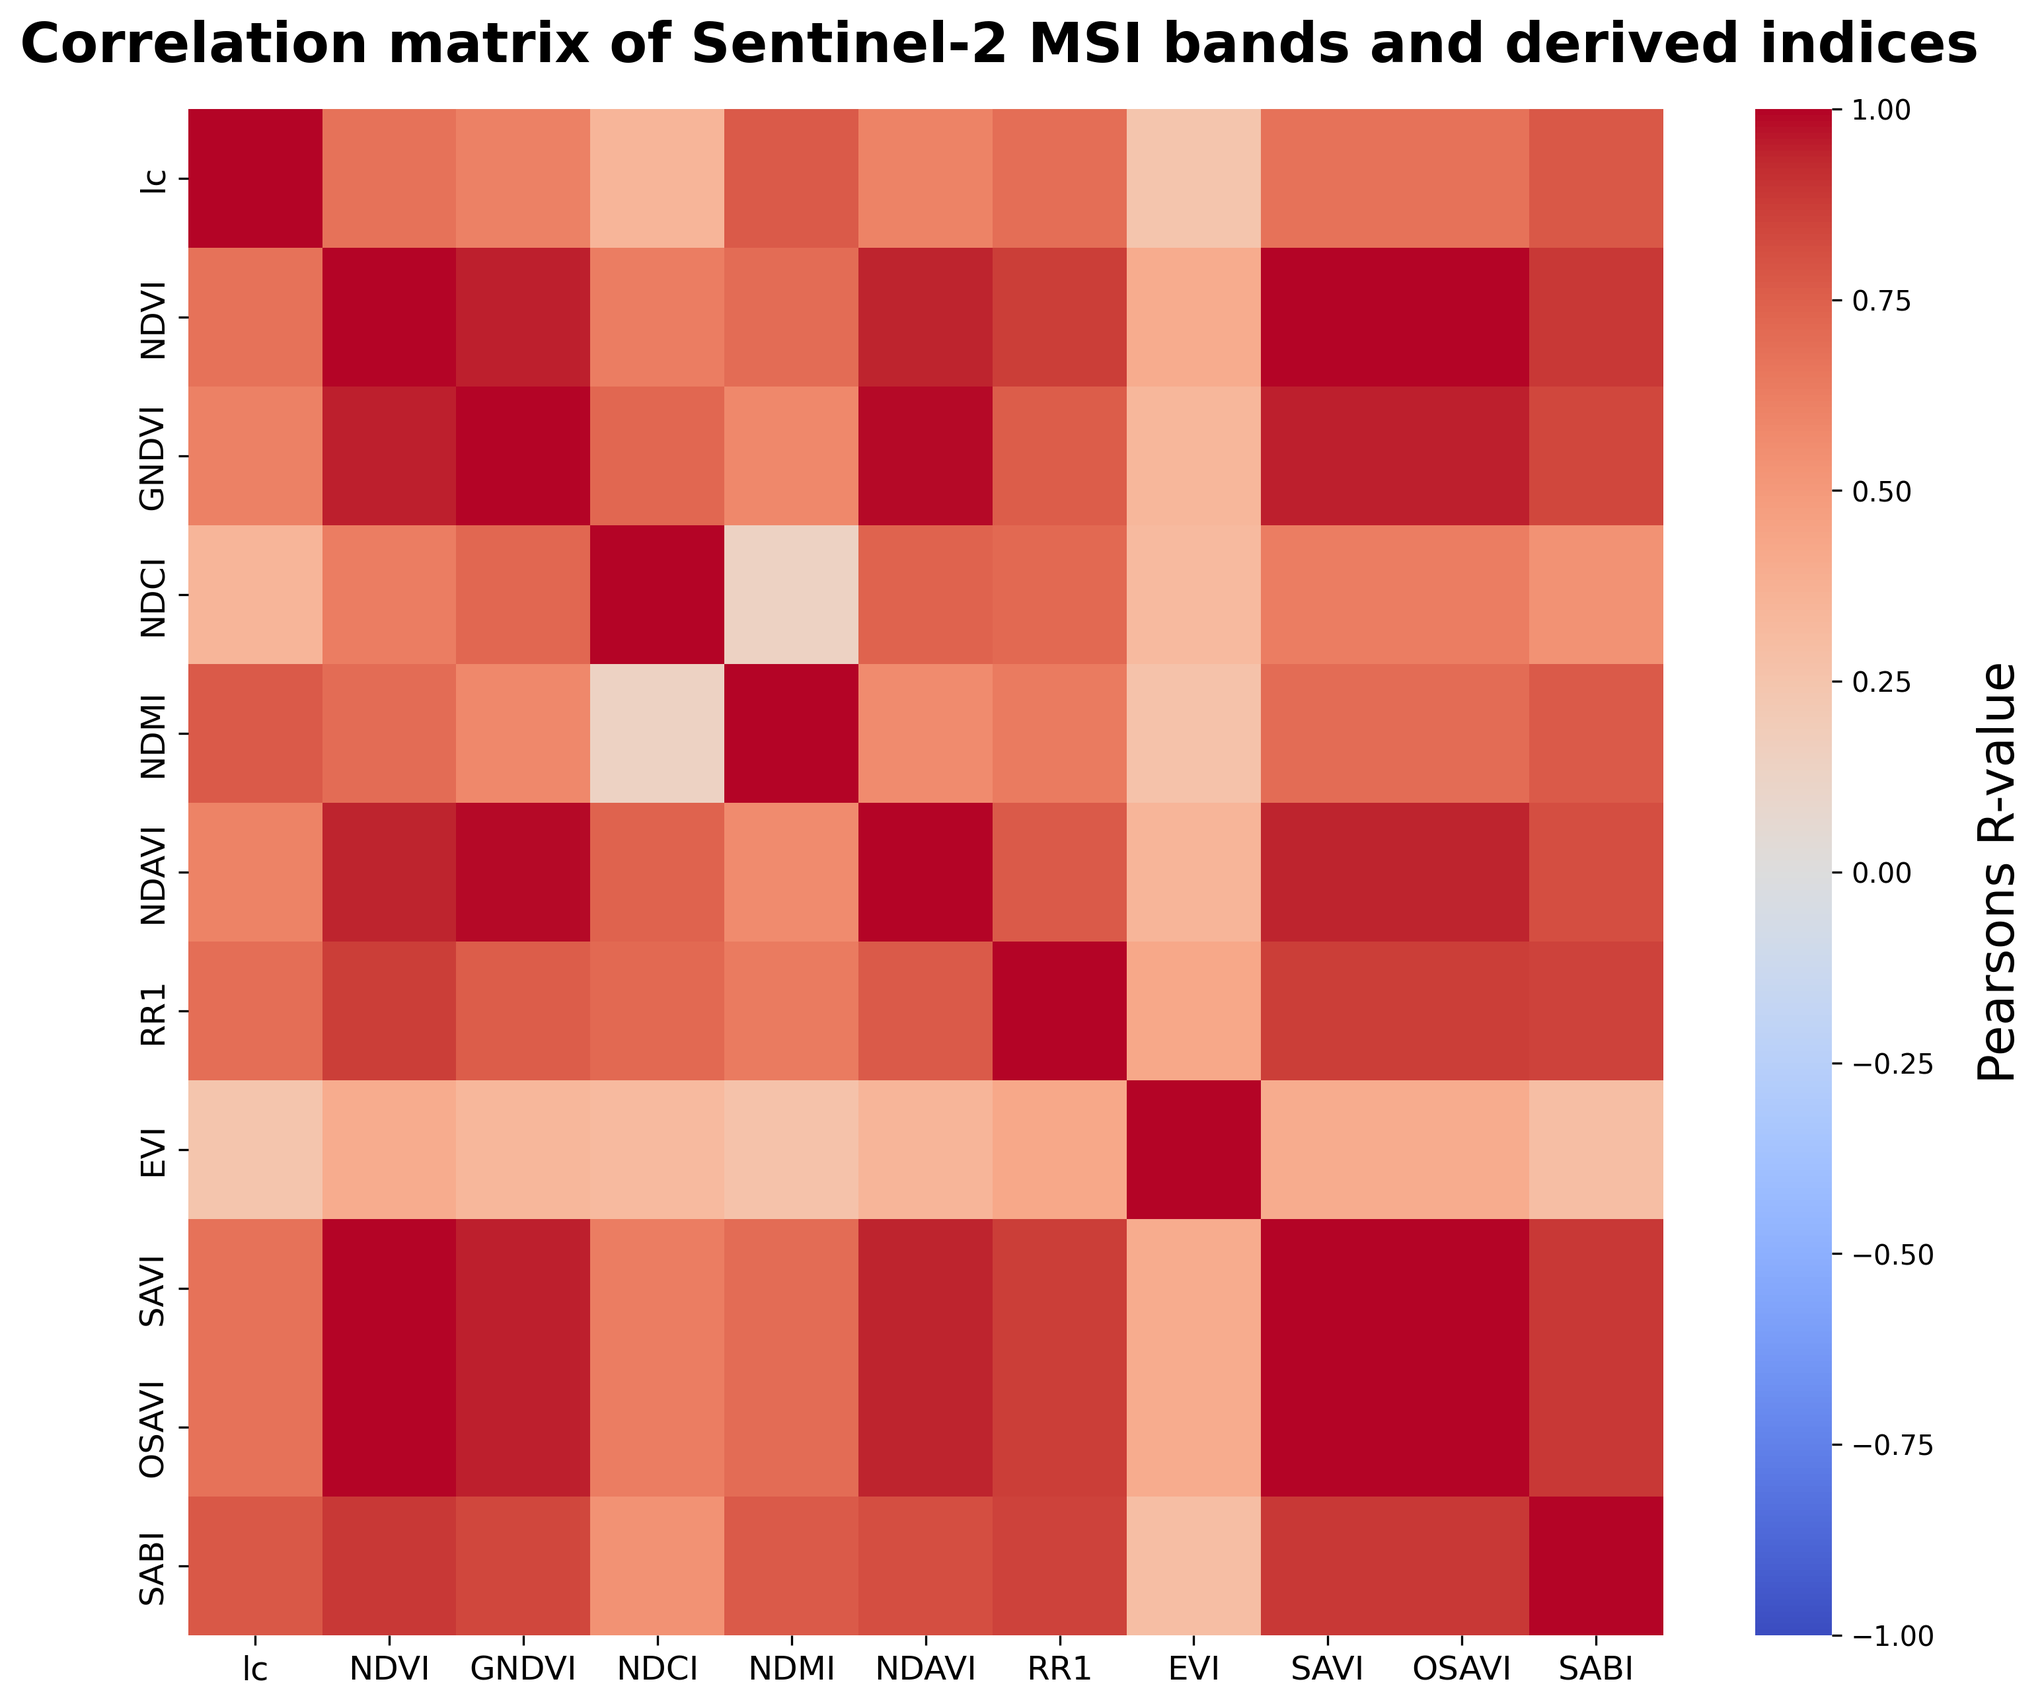
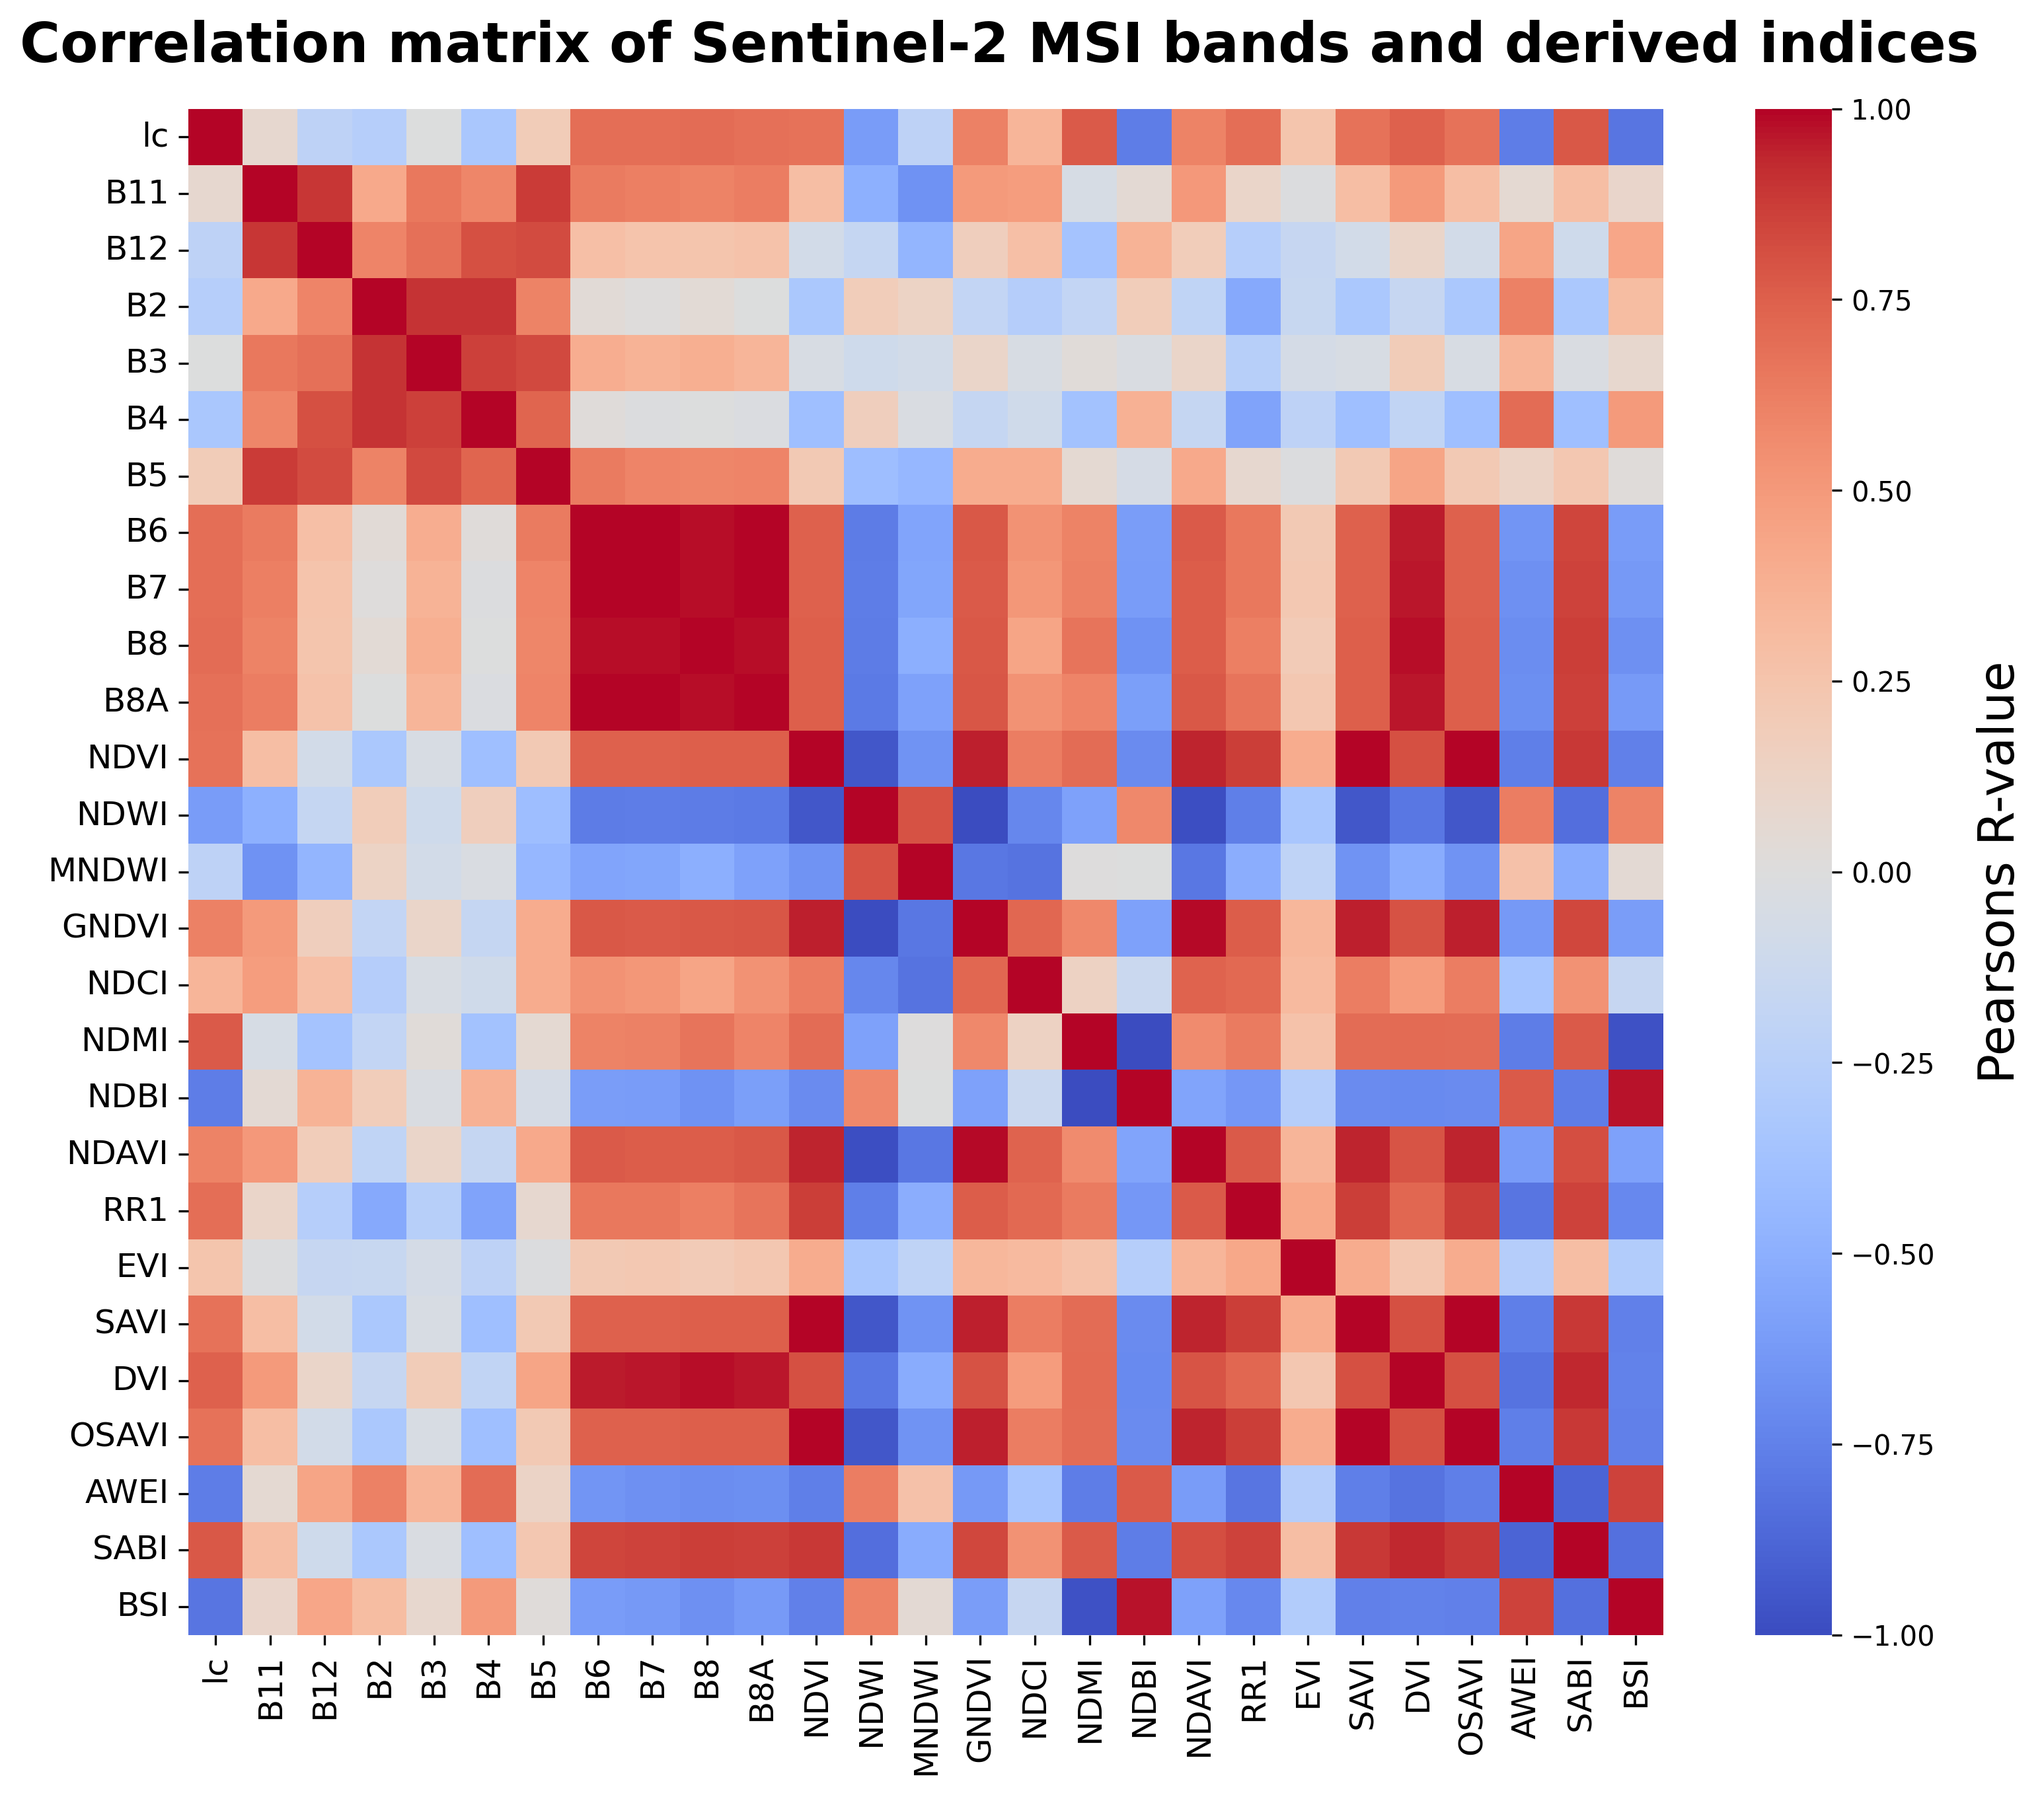
Add patch sampling

diff --git a/src/gee_utils.py b/src/gee_utils.py
@@ -237,10 +237,33 @@ def sample_points_from_image(point_fc_for_image,
      
     return samples
 
+def sample_patches_from_image(point_fc_for_image,
+                            image,
+                           ):
+    """
+    To create an image where each pixel is an array, then sample the arrays for the labelled pixels
+    """
+    kernel_radius = 7 # How many pixels either side of the labelled pixel e.g. radius of 7 gives 15x15
+    bands = ["B2", "B3", "B4", "B5", "B8", "B11", "B12"]
+
+    image = image.select(bands)
+    proj = image.select("B2").projection()
+
+    array_image = image.neighbourhoodToArray(kernel = ee.Kernel.square(kernel_radius))
+
+    sampled_patches = array_image.sampleRegions(collection = point_fc_for_image,
+                                                properties = ["lc", "obs_date", "location", "lon", "lat"],
+                                                scale = 10,
+                                                projection = proj,
+                                                geometries = False
+                                                )
+    return sampled_patches
+
 def sample_by_date(date,
                    location_fc,
                    merged_ic,
-                   location):
+                   location,
+                   points_or_patches):
     """Sample all labelled points for one date within one study location.
 
     Args:
@@ -263,14 +286,18 @@ def sample_by_date(date,
         .first()
     )
     
-    samples = sample_points_from_image(point_fc_for_image, image)
-    
+    if points_or_patches == "points":
+        samples = sample_points_from_image(point_fc_for_image, image)
+    elif points_or_patches == "patches":
+        samples = sample_patches_from_image(point_fc_for_image, image)
+
     return samples
      
 
 def sample_by_location(location,
                        merged_fc,
-                       merged_ic):
+                       merged_ic,
+                       points_or_patches):
     """Sample all labelled dates for a single study location.
 
     Args:
@@ -289,7 +316,7 @@ def sample_by_location(location,
     date_list = ee.List(location_fc.aggregate_array("obs_date")).distinct()
 
     def map_over_date(date):
-        return sample_by_date(date, location_fc, merged_ic, location)
+        return sample_by_date(date, location_fc, merged_ic, location, points_or_patches)
 
     samples_for_location = ee.FeatureCollection(date_list.map(map_over_date)
     ).flatten()
@@ -298,7 +325,8 @@ def sample_by_location(location,
 
 def subset_merged_fc_by_location(locations_ee_list,
                                  merged_ic,
-                                 merged_fc):
+                                 merged_fc,
+                                 points_or_patches):
     """Sample all configured locations and merge the results.
 
     Args:
@@ -311,7 +339,7 @@ def subset_merged_fc_by_location(locations_ee_list,
         location in ``locations_ee_list``.
     """
     def map_over_location(location):
-        return sample_by_location(location, merged_fc, merged_ic)
+        return sample_by_location(location, merged_fc, merged_ic, points_or_patches)
     
     samples_all_locations = ee.FeatureCollection(locations_ee_list.map(map_over_location)).flatten()
 
@@ -393,7 +421,8 @@ def get_samples(merged_ic,
     all_samples =  subset_merged_fc_by_location(
          locations_ee_list,
          merged_ic,
-         merged_fc
+         merged_fc,
+         points_or_patches= "points"
     )
 
     all_samples_df = geemap.ee_to_df(all_samples)
@@ -401,3 +430,63 @@ def get_samples(merged_ic,
     return all_samples_df
     
     
+def export_patches(merged_ic, sites_file: str | Path, project_root: str | Path):
+
+    project_root = Path(project_root)
+
+    with Path(sites_file).open("r", encoding="utf-8") as f:
+        sites = json.load(f)
+
+    locations_list = list(sites.get("sites", {}).keys())
+
+    for location in locations_list:
+            location = location.lower()
+            points_file = project_root / "configs" / "point_files" / f"{location}_points.shp"
+
+            if not points_file.exists():
+                raise FileNotFoundError(f"Points file not found for {location}: {points_file}")
+            
+            points_gdf = gpd.read_file(points_file)
+
+            points_gdf = validate_points_columns(points_gdf, points_file)
+
+            points_gdf = points_gdf.to_crs("EPSG:4326")
+
+            # Had issue with multipoint geometreis so small helper function
+            def multipoint_to_point(geom):
+                if geom.geom_type == "Point":
+                    return geom
+                if geom.geom_type == "MultiPoint" and len(geom.geoms) == 1:
+                    return geom.geoms[0]
+                raise ValueError(f"Expected Point or singleton MultiPoint, got {geom.geom_type}")
+
+            points_gdf["geometry"] = points_gdf.geometry.apply(multipoint_to_point)
+
+            # Force a consistent join key between labels and the image collection.
+            points_gdf["location"] = location
+            points_gdf["lon"] = points_gdf.geometry.x
+            points_gdf["lat"] = points_gdf.geometry.y
+
+            gdf_list.append(points_gdf)
+    
+    merged_gdf = pd.concat(gdf_list, ignore_index=True)
+
+    # Convert merged_gdf to ee.FeatureCollection
+
+    merged_fc = geemap.gdf_to_ee(merged_gdf)
+
+    locations_ee_list = merged_fc.aggregate_array("location").distinct()
+
+    all_samples =  subset_merged_fc_by_location(
+         locations_ee_list,
+         merged_ic,
+         merged_fc, 
+         points_or_patches= "patches"
+    )
+
+    task = ee.batch.Export.table.toDrive(
+                                        collection= all_samples,
+                                        description= 'sampled_patches_as_arrays',
+                                        folder= 'Dissertation',
+                                        fileFormat= 'GeoJSON'
+                                        )

diff --git a/src/data_utils.py b/src/data_utils.py
@@ -188,36 +188,8 @@ def create_images_for_all_locations(sites_file: str | Path, project_root: str | 
 #  date = ee.Date.parse('yyyy-MM-dd', feature.get('obs_date'))
 
 
-#     points_feature = geemap.gdf_to_ee(points)
-
-# def export_image_to_drive(date,
-#                           location,
 
 
-   
-#     tasks = []
+     
+    
 
-#     for i in range(image_list.size().getInfo()):
-#         img = ee.Image(image_list.get(i))
-#         year = img.get("year").getInfo()
-#         nodata_val = -9999
-        
-#         unmasked_image = img.unmask(value=nodata_val, sameFootprint=False)
-#         # Use the "noData" key in the "formatOptions" parameter to set the nodata value
-#         # (GeoTIFF format only).
-
-#         task = ee.batch.Export.image.toDrive(
-#             image=unmasked_image,
-#             description=f'gebe_composite_{year}',
-#             folder='EORSS/CW',
-#             region=gebe,  # full image bounds
-#             scale=10,  # large scale for minimal demo
-#             crs=crs,
-#             fileFormat='GeoTIFF',
-#             formatOptions={
-#                 'noData': nodata_val
-#             }
-#         )
-#         task.start()
-#         tasks.append(task)
-        
